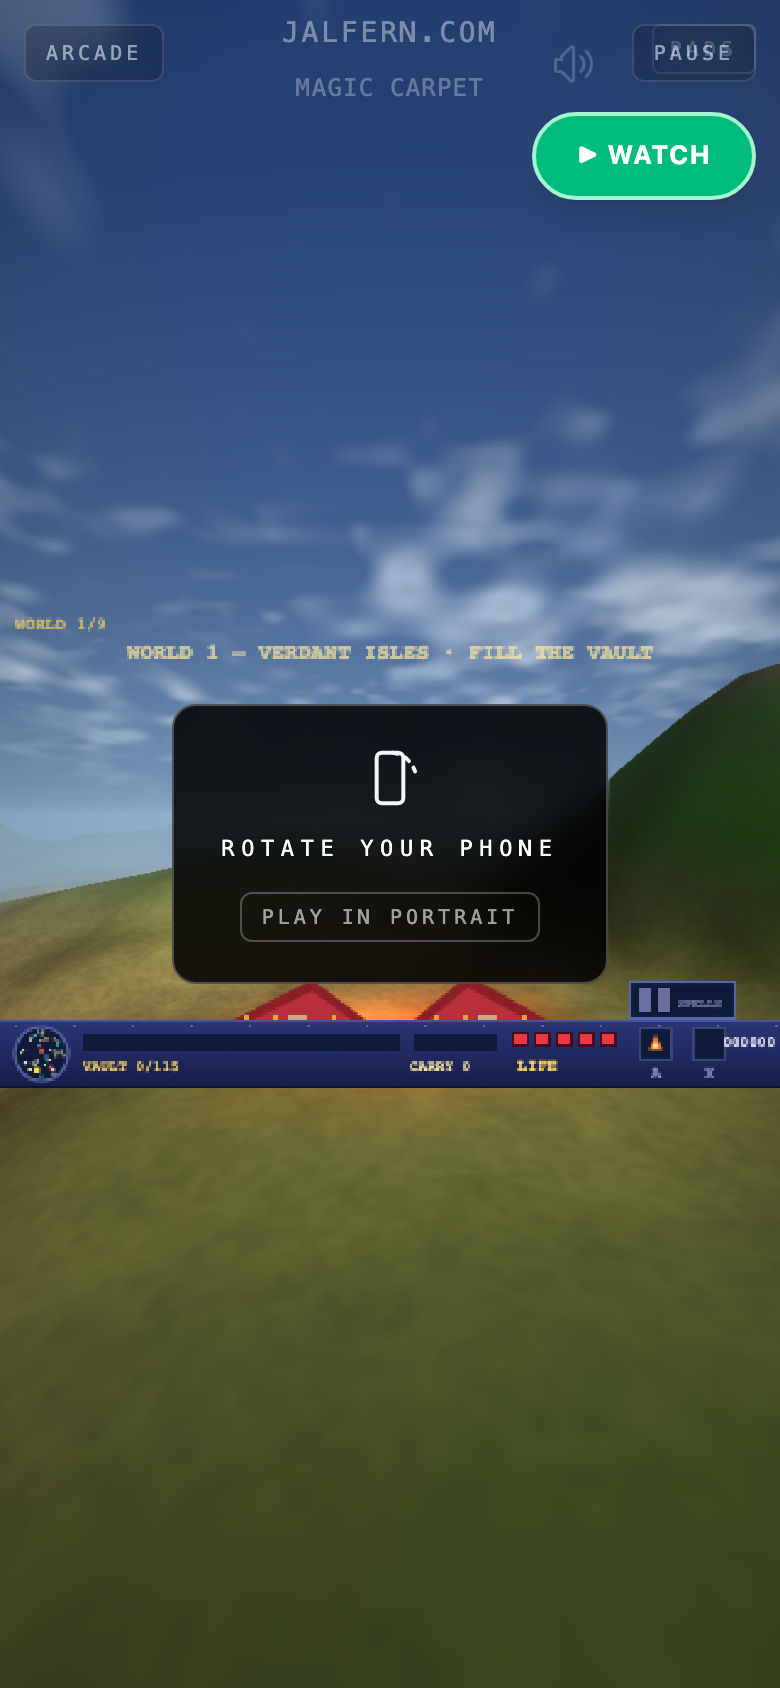
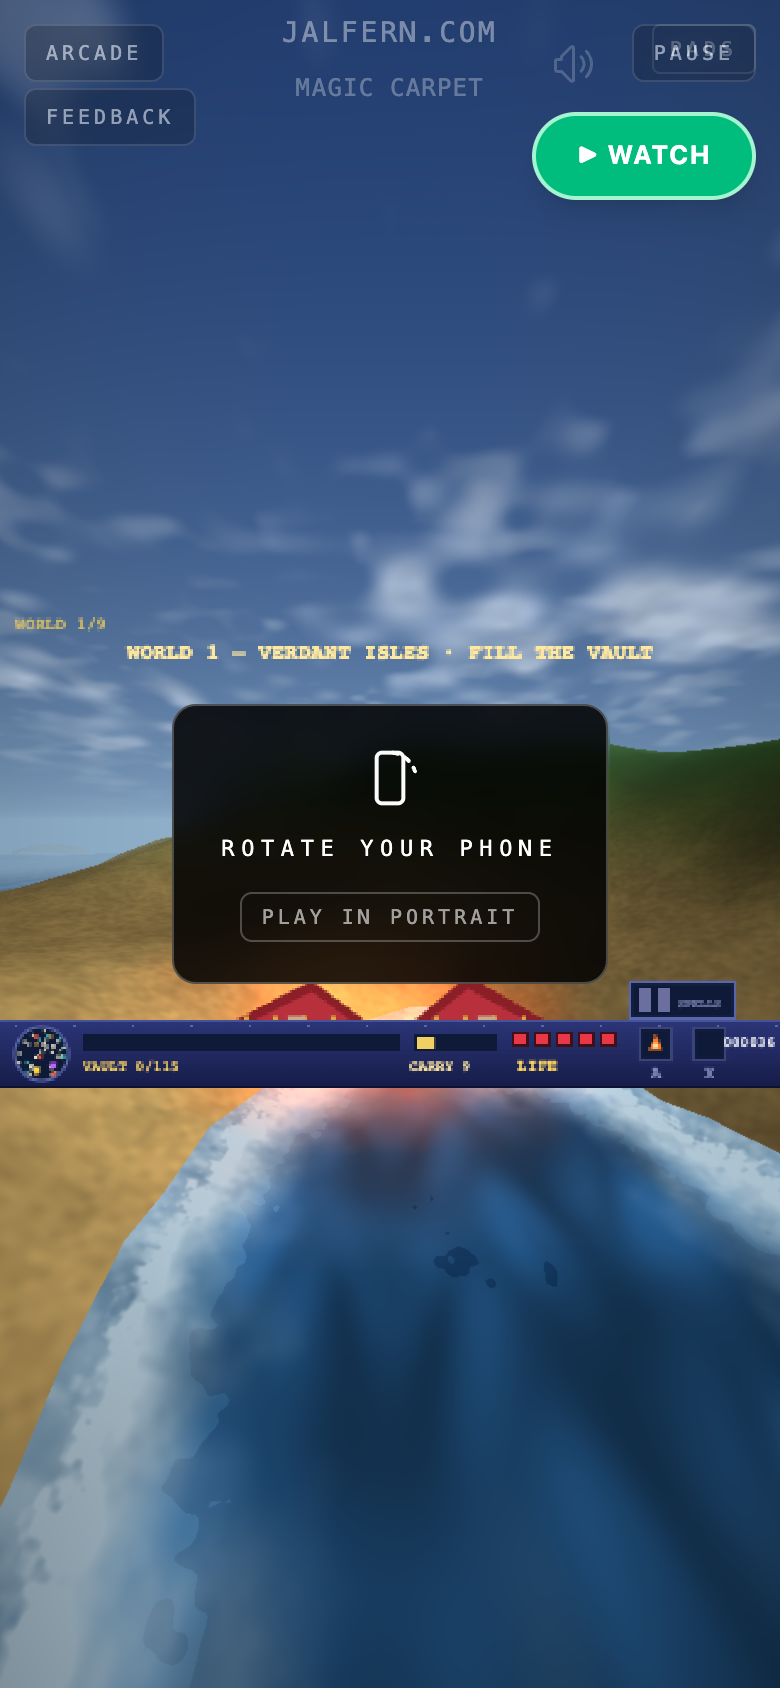
QA #1764 item 4 stage 1: MAGIC CARPET — 4-bit palette-cycled ocean (#1854)
* #1764 item 4 stage 1: MAGIC CARPET — 4-bit palette-cycled ocean

The depth bands were smooth-interpolated; the original's waves were hard
4-level bands whose palette index marched over time (16-colour palette
animation). Water body is now a hard band (floor, no smoothstep) whose
palette index advances one level every 6 sim ticks — colours flow through
fixed wave shapes. Depth darkening kept so the deep sea reads darker.

carpetcheck gains 2 gates: source pin (hard band + cycle math, WAVE_CYCLE
= {levels:4, stepTicks:6}, old smoothstep interpolation banned) and a
live gate (shader uWorldTime equals sim tick on painted frames, index
equals floor(tick/6)%4, clock moves).

* QA #1764 item 4 stage 1: recaptured shots + honest-gaps README update (palette cycle closed, underwater/travelling crests remain)

diff --git a/src/games/MagicCarpet/renderer.js b/src/games/MagicCarpet/renderer.js
@@ -291,6 +291,12 @@ void main(){
 }
 `
 
+// #1764 item 4 stage 1 — the original's 4-bit palette-cycled ocean:
+// the depth bands are HARD levels (no smoothstep between them) and the
+// palette index marches every stepTicks of world time, so colours flow
+// through fixed wave shapes like the 1994 original's palette animation.
+export const WAVE_CYCLE = { levels: 4, stepTicks: 6 }
+
 export function createCarpetGL(canvas, opts = {}) {
     const lite = !!opts.lite
     const cmPrev = THREE.ColorManagement.enabled
@@ -365,9 +371,13 @@ void main(){
     if (vH < ${WATER}.0) {
         float depth = ${WATER}.0 - vH;
         float bpos = depth * 0.28 + fbm2(vWorld.xz * 0.7 + 3.3) * 0.45;
-        float b0 = clamp(floor(bpos) / 3.0, 0.0, 1.0);
-        float b1 = clamp((floor(bpos) + 1.0) / 3.0, 0.0, 1.0);
-        vec3 wcol = mix(uShallow, uDeep, mix(b0, b1, smoothstep(0.3, 0.7, fract(bpos))));
+        // #1764 item 4 stage 1: hard 4-level band, palette index marching with
+        // world time (the original's 4-bit wave cycle). Shapes stay put; the
+        // colours walk shallow→deep one level per stepTicks — 16-colour flow.
+        float lvl = clamp(floor(bpos), 0.0, ${WAVE_CYCLE.levels - 1}.0);
+        float cyc = mod(lvl + floor(uWorldTime / ${WAVE_CYCLE.stepTicks}.0), ${WAVE_CYCLE.levels}.0);
+        vec3 wcol = mix(uShallow, uDeep, cyc / ${WAVE_CYCLE.levels - 1}.0);
+        wcol *= mix(1.0, 0.72, clamp(depth * 0.1, 0.0, 1.0));
         vec2 rp = vWorld.xz * 0.55 + uWorldTime * vec2(0.02, 0.014);
         vec2 rp2 = vWorld.xz * 0.31 - uWorldTime * vec2(0.011, 0.018);
         float rip = sin(rp.x + sin(rp.y * 1.3 + uWorldTime * 0.02)) + sin(rp.y * 1.7 - uWorldTime * 0.026);
@@ -1167,6 +1177,7 @@ void main(){
         smokeCount: () => smoke.geo.instanceCount,
         spriteCount: () => spr.geo.instanceCount,
         glowCells: () => { let n = 0; for (let i = 0; i < N * N; i++) if (hData[i * 4 + 1] > 0) n++; return n },
+        waveUniform: () => tUniforms.uWorldTime.value, // #1764 item 4: the shader's clock is sim ticks, not wall time
         scorchCells: () => { let n = 0; for (let i = 0; i < N * N; i++) if (hData[i * 4 + 2] > 0) n++; return n },
         dispose() {
             rtScene.dispose(); rtA.dispose(); rtB.dispose(); rtEyeL.dispose(); rtEyeR.dispose()

diff --git a/src/games/MagicCarpet/index.jsx b/src/games/MagicCarpet/index.jsx
@@ -23,7 +23,7 @@ import {
     atCastle, bookOpen, bookClose, bookKey, bookTap, BOOK, BOOK_PROMPT,
     SEL, selectTap, cursorStep,
 } from './sim.js'
-import { createCarpetGL } from './renderer.js'
+import { createCarpetGL, WAVE_CYCLE } from './renderer.js'
 
 const FIXED_DT = 1000 / 60
 
@@ -1204,6 +1204,11 @@ const MagicCarpetGame = () => {
                     projs: gs.projs.length, keys: { ...keys }, boost: boostOn,
                     towerDown: gs.towerDown, craters: gs.craters.length,
                     wizStage: gs.wizStage, worldT: gs.worldT,
+                    // #1764 item 4 stage 1: the ocean's palette cycle is deterministic —
+                    // index = floor(tick / stepTicks) % levels, and the shader's clock is
+                    // the sim tick (never wall time).
+                    waveIdx: Math.floor(gs.tick / WAVE_CYCLE.stepTicks) % WAVE_CYCLE.levels,
+                    waveTick: renderer ? renderer.waveUniform() : -1,
                     invis: gs.invis, book: gs.book,
                     spellBook: gs.spellBook, bookPage: gs.spellBook ? gs.bookPage : -1,
                     atCastle: atCastle(gs), castle: { x: gs.castle.x, y: gs.castle.y },

diff --git a/src/games/MagicCarpet/README.md b/src/games/MagicCarpet/README.md
@@ -398,9 +398,13 @@ see item 5).
   stays flat mono). `V` toggles, `?stereo=1` opens on a fresh link, the
   choice persists. Still open: LCD-shutter/interlace modes, and the
   audio half (HRTF) of #1746 item 7.
-- Water is shader waves with self-shadowing, sun-linked sparkle, dithered
-  depth bands and foam lace tracing the shoreline — but not the original's
-  4-bit palette-cycling wave animation; no underwater view when cratered below sea.
+- Water is shader waves with self-shadowing, sun-linked sparkle and foam lace
+  tracing the shoreline. **CLOSED by #1764 item 4 stage 1:** the depth bands are
+  now hard 4-level bands whose palette index marches one level every 6 sim ticks
+  (`WAVE_CYCLE`) — the original's 16-colour palette animation walking through the
+  wave bands, clocked on sim ticks (determinism intact). Still open: band shapes
+  sit still while the colours walk (true travelling crests), and no underwater
+  view when cratered below sea.
 - **CLOSED by #1694:** terrain deformation ripple — craters, RAISE mounds and
   DISSOLVE wounds now unfold over CRUMBLE_T=10 ticks (ease-in collapse,
   ease-out swell, a shockwave rim that settles to exactly zero) with the
